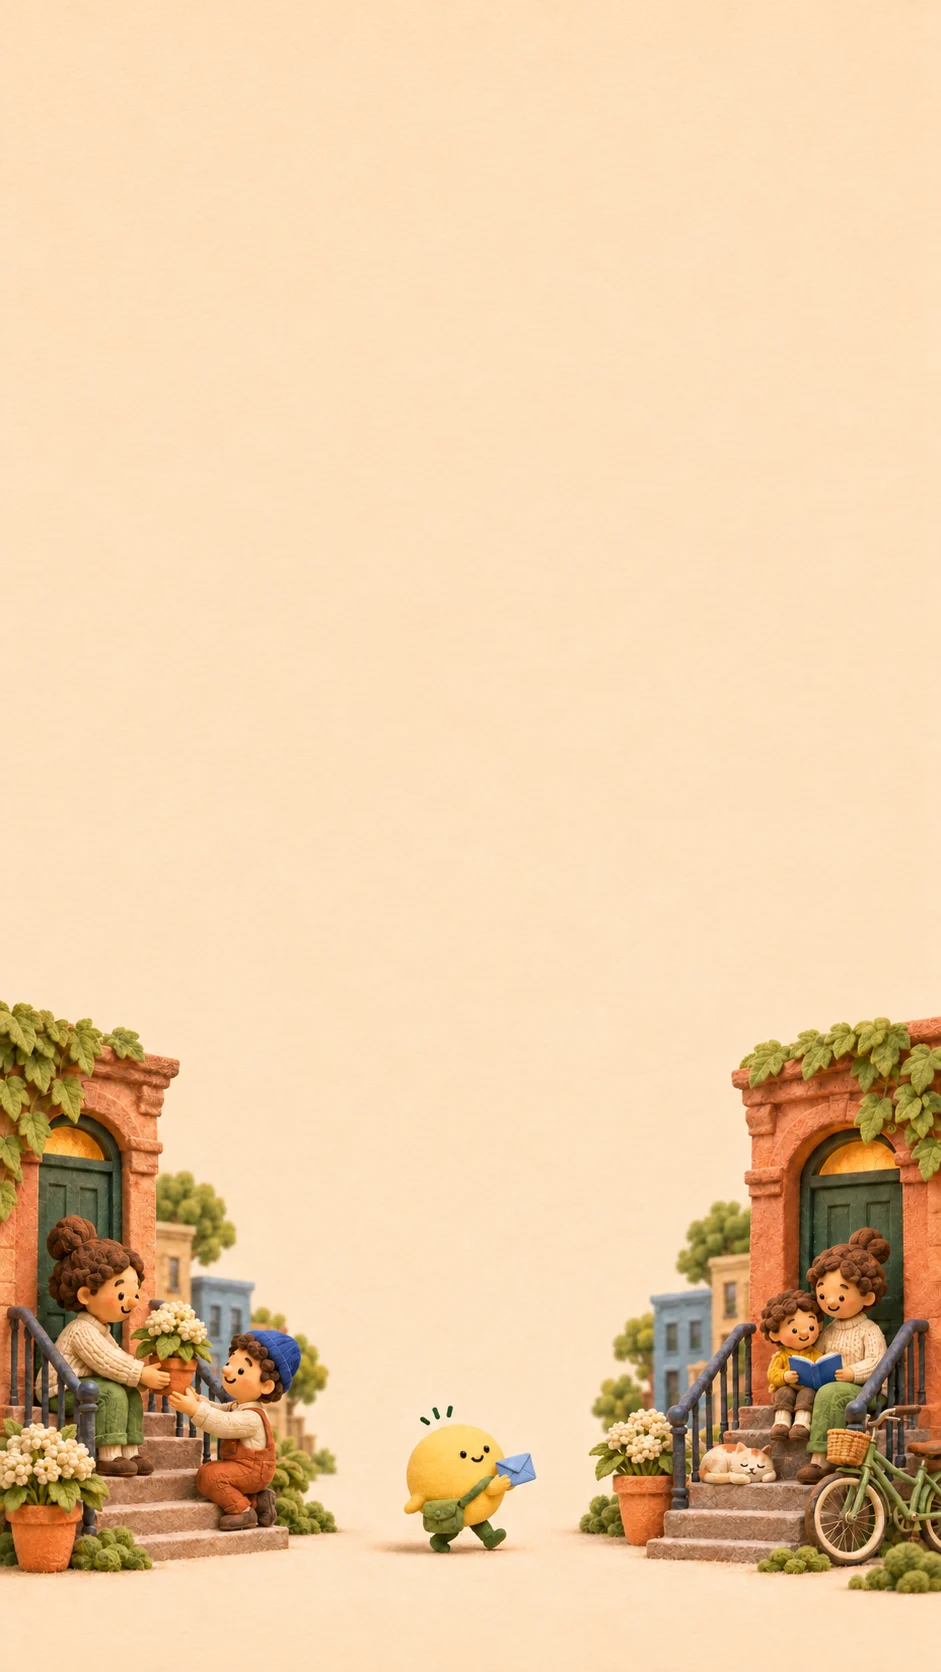
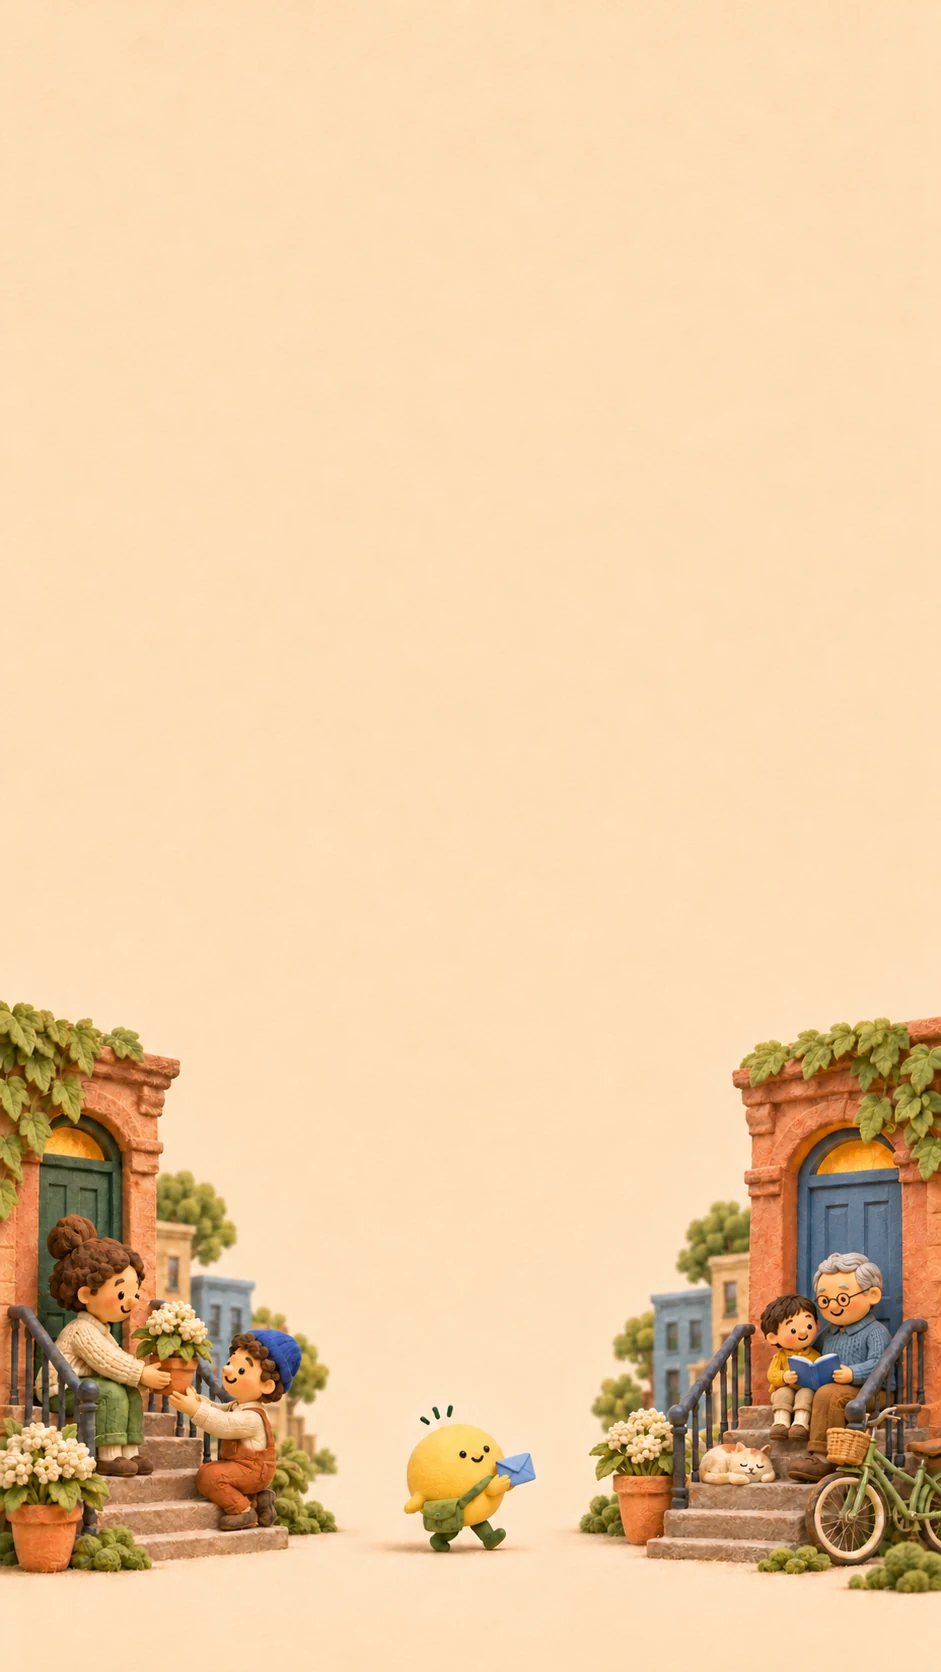
Give the right hero household a distinct neighbor and blue door

diff --git a/public/landing/index.html b/public/landing/index.html
@@ -44,10 +44,10 @@
         <p class="hero-small">No app. No feed. No spam</p>
       </div>
       <picture class="neighborhood-picture">
-        <source media="(max-width: 760px)" type="image/webp" srcset="/landing/assets/clay-hero-mobile.webp" width="941" height="1672">
-        <source media="(max-width: 760px)" srcset="/landing/assets/clay-hero-mobile.png" width="941" height="1672">
-        <source type="image/webp" srcset="/landing/assets/clay-hero.webp" width="1584" height="992">
-        <img class="neighborhood-art" src="/landing/assets/clay-hero.png" alt="Handmade clay neighbors sharing flowers and reading on their stoops, with a little yellow messenger walking between them." width="1584" height="992" fetchpriority="high">
+        <source media="(max-width: 760px)" type="image/webp" srcset="/landing/assets/clay-hero-mobile.webp?v=2" width="941" height="1672">
+        <source media="(max-width: 760px)" srcset="/landing/assets/clay-hero-mobile.png?v=2" width="941" height="1672">
+        <source type="image/webp" srcset="/landing/assets/clay-hero.webp?v=2" width="1586" height="992">
+        <img class="neighborhood-art" src="/landing/assets/clay-hero.png?v=2" alt="Clay neighbors sharing flowers and an older neighbor reading with a child by a blue door, while Stoop carries a message between their homes." width="1586" height="992" fetchpriority="high">
       </picture>
     </section>
 
